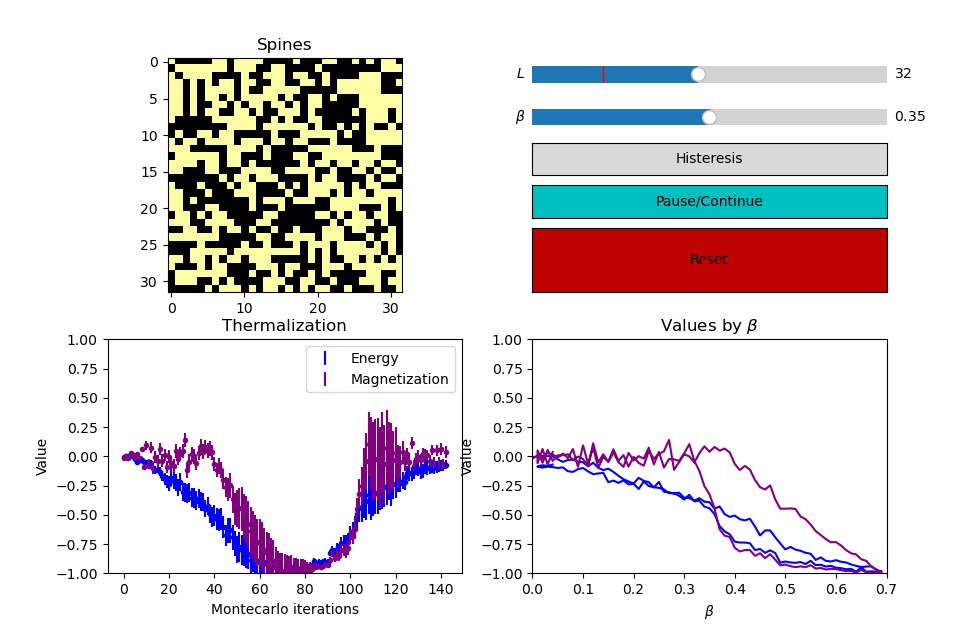
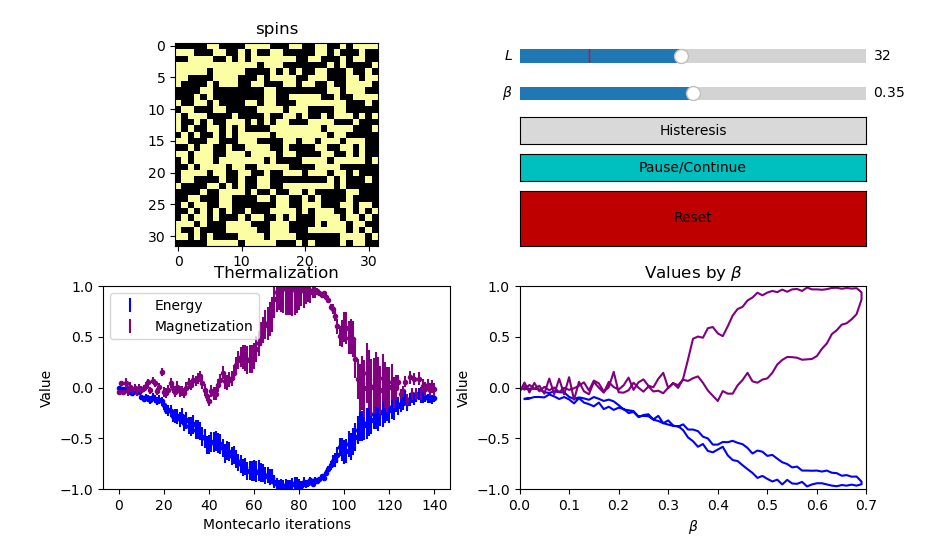
Correct typo

Changed region(s): [[0.0308, 0.0312, 0.9841, 0.967], [0.7381, 0.5927, 0.7688, 0.6239], [0.7073, 0.6239, 0.7381, 0.655]]

diff --git a/interactive_ising2d.py b/interactive_ising2d.py
@@ -27,16 +27,16 @@ class interactive_ising2d:
         self.beta_values = np.arange(
             self.beta_min, self.beta_max, self.delta_beta)
 
-        self.create_spines()
+        self.create_spins()
 
         self.probability = []
 
         self.reset_variables()
 
-    def create_spines(self):
-        """Creates a random generated spines vector"""
-        # self.spines = np.ones((self.L, self.L), dtype='int')
-        self.spines = (np.random.random(
+    def create_spins(self):
+        """Creates a random generated spins vector"""
+        # self.spins = np.ones((self.L, self.L), dtype='int')
+        self.spins = (np.random.random(
             (self.L_ref, self.L_ref))*2).astype('int')*2-1
 
     def update_probability(self, beta):
@@ -49,28 +49,28 @@ class interactive_ising2d:
         return int((dif_energy+8)/4)
 
     def metropoli(self):
-        """Evolves `simulation.spines` to it's next state using metropoli algorithm."""
+        """Evolves `simulation.spins` to it's next state using metropoli algorithm."""
         for y in range(self.L):
             for x in range(self.L):
-                dif_energy = 2 * self.spines[y, x] * (self.spines[y, (x+1) % self.L] + self.spines[(
-                    y-1) % self.L, x] + self.spines[y, (x-1) % self.L] + self.spines[(y+1) % self.L, x])
+                dif_energy = 2 * self.spins[y, x] * (self.spins[y, (x+1) % self.L] + self.spins[(
+                    y-1) % self.L, x] + self.spins[y, (x-1) % self.L] + self.spins[(y+1) % self.L, x])
 
                 C = self.probability[self.get_probability_index(dif_energy)]
                 if np.random.random() < C:
-                    self.spines[y, x] *= -1
+                    self.spins[y, x] *= -1
 
     def energy(self):
         """Returns the energy"""
-        return sum(-self.spines[y, x] * (self.spines[y, (x+1) % self.L] + self.spines[(y+1) % self.L, x]) for x in range(self.L) for y in range(self.L)) / (2 * self.L**2)
+        return sum(-self.spins[y, x] * (self.spins[y, (x+1) % self.L] + self.spins[(y+1) % self.L, x]) for x in range(self.L) for y in range(self.L)) / (2 * self.L**2)
 
     def magnetization(self):
         """Returns the magnetization"""
-        return np.sum(self.spines)/(self.L**2)
+        return np.sum(self.spins)/(self.L**2)
 
-    def prepare_canvas(self, fig, ax_temporal, ax_spines, ax_beta_values, ax_widgets):
-        """Adds `fig`, `ax_temporal` and `ax_spines` to the `simulation` object as atributes."""
+    def prepare_canvas(self, fig, ax_temporal, ax_spins, ax_beta_values, ax_widgets):
+        """Adds `fig`, `ax_temporal` and `ax_spins` to the `simulation` object as atributes."""
         self.ax_temporal = ax_temporal
-        self.ax_spines = ax_spines
+        self.ax_spins = ax_spins
         self.ax_beta_values = ax_beta_values
         self.ax_widgets = ax_widgets
         self.fig = fig
@@ -127,13 +127,13 @@ class interactive_ising2d:
     def change_L(self, val):
         """Changes the beta used in the simulation"""
         self.L_ref = int(val)
-        self.create_spines()
+        self.create_spins()
 
     def axis_format(self):
         """Gives axis title and label names"""
-        self.ax_spines.set_title('Spines')
-        self.ax_spines.set_ylabel('')
-        self.ax_spines.set_xlabel('')
+        self.ax_spins.set_title('spins')
+        self.ax_spins.set_ylabel('')
+        self.ax_spins.set_xlabel('')
         self.ax_temporal.set_title(r'Thermalization')
         self.ax_temporal.set_xlabel(r'Montecarlo iterations')
         self.ax_temporal.set_ylabel(r'Value')
@@ -216,9 +216,9 @@ class interactive_ising2d:
 
         self._X, self._Y = [], [[], []]
 
-    def plot_spines(self):
-        """Plots `self.spines`"""
-        self.ax_spines.imshow(self.spines, cmap='inferno', norm=self.cnorm)
+    def plot_spins(self):
+        """Plots `self.spins`"""
+        self.ax_spins.imshow(self.spins, cmap='inferno', norm=self.cnorm)
 
     def toggle_pause(self, *args, **kwargs):
         """Pause or resume the simulation"""
@@ -273,8 +273,8 @@ class interactive_ising2d:
         self.ax_temporal.clear()
         self.plot_temporal()
 
-        self.ax_spines.clear()
-        self.plot_spines()
+        self.ax_spins.clear()
+        self.plot_spins()
 
         self.ax_beta_values.clear()
         self.plot_beta_values()

diff --git a/main.py b/main.py
@@ -16,7 +16,7 @@ if __name__ == '__main__':
     
     ising2d.prepare_canvas(fig, 
                        ax_temporal=ax3, 
-                       ax_spines=ax1, 
+                       ax_spins=ax1, 
                        ax_beta_values=ax4, 
                        ax_widgets=ax2)
     
